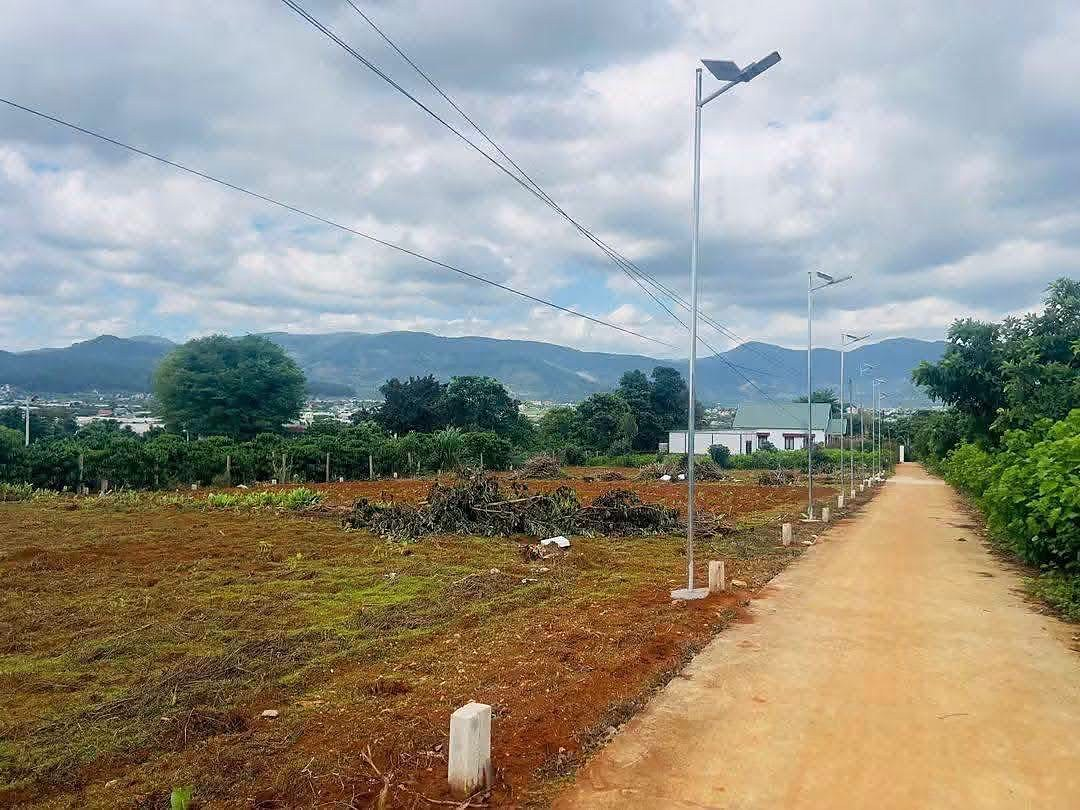
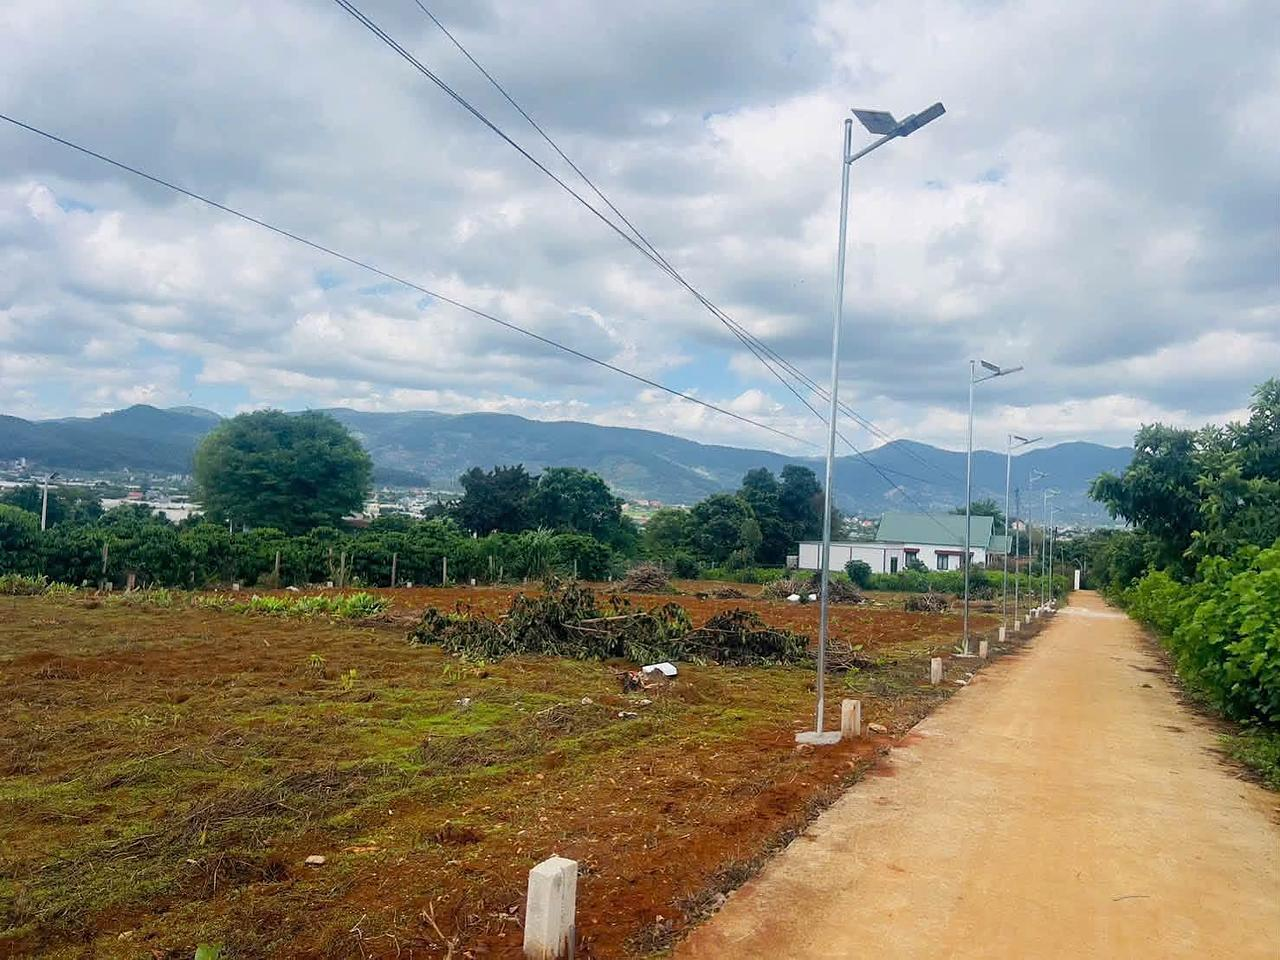
Cập nhật cụm Chi Lăng 18 lô: ảnh hiện trạng mới (đường bê tông + đèn NLMT, view rừng thông), bản vẽ 18 nền, sổ thửa 868
- Thay 4 ảnh gallery bằng ảnh mới: 2 ảnh thực tế đường + đèn NLMT + view rừng thông, bản vẽ 18 nền đánh số, sơ đồ sổ thửa 868 (cắt bỏ serial/QR/PII)
- Bổ sung view rừng thông, chợ đêm Đà Lạt 20km; cập nhật trạng thái đường đã đổ bê tông
- dateModified 09/08, og:image dims

diff --git a/dat-nen/cum-chi-lang-18-lo/index.html b/dat-nen/cum-chi-lang-18-lo/index.html
@@ -13,8 +13,8 @@
   <meta property="og:site_name" content="Nam Ban Villas">
   <meta property="og:type" content="website">
   <meta property="og:image" content="https://nambanvillas.vn/images/listings/cum-chi-lang-18-lo/1.jpg">
-  <meta property="og:image:width" content="1080">
-  <meta property="og:image:height" content="810">
+  <meta property="og:image:width" content="1280">
+  <meta property="og:image:height" content="960">
   <meta name="twitter:card" content="summary_large_image">
   <meta name="twitter:title" content="Cụm 18 Lô F0 Chi Lăng Nam Ban – Sổ Sẵn Công Chứng, ~135m²/nền, 75m² Thổ Cư, 650 Triệu/Nền">
   <meta name="twitter:description" content="18 lô F0 khu Chi Lăng, xã Nam Ban – mỗi nền 5m × ~27m (~135m²), ~75m² thổ cư/nền, sổ sẵn công chứng. Giá 650 triệu/nền.">
@@ -30,7 +30,7 @@
     <script type="application/ld+json">{"@context":"https://schema.org","@type":"Product","name":"Cụm 18 Lô F0 Chi Lăng Nam Ban – Sổ Sẵn Công Chứng, ~135m²/nền, 75m² Thổ Cư","description":"Bán cụm 18 lô F0 khu Chi Lăng, xã Nam Ban, Lâm Hà – mỗi nền ngang 5m × dài ~27m (~135m²), khoảng 75m² thổ cư/nền (tổng 1.350m² thổ cư), sổ sẵn công chứng, đã cắm ranh mốc, có trụ điện và đèn đường năng lượng mặt trời. Cách đường nhựa 200m, chợ Thăng Long 1,5km. Giá 650 triệu/nền.","url":"https://nambanvillas.vn/dat-nen/cum-chi-lang-18-lo/","image":"https://nambanvillas.vn/images/listings/cum-chi-lang-18-lo/1.jpg","brand":{"@type":"Organization","name":"Nam Ban Villas"},"offers":{"@type":"AggregateOffer","priceCurrency":"VND","lowPrice":650000000,"offerCount":10,"availability":"https://schema.org/InStock","priceValidUntil":"2026-12-31","seller":{"@type":"RealEstateAgent","name":"Nam Ban Villas","telephone":"+84938227988","url":"https://nambanvillas.vn","address":{"@type":"PostalAddress","addressLocality":"Nam Ban","addressRegion":"Lâm Đồng","addressCountry":"VN"}}},"additionalProperty":[{"@type":"PropertyValue","name":"Số nền","value":"Còn 10 nền F0 (cụm 18 nền)"},{"@type":"PropertyValue","name":"Kích thước mỗi nền","value":"Ngang 5m × dài ~27m (~135m²)"},{"@type":"PropertyValue","name":"Thổ cư","value":"~75m²/nền (tổng 1.350m²)"},{"@type":"PropertyValue","name":"Lô đặc biệt","value":"Lô 18 rộng ~200m²"},{"@type":"PropertyValue","name":"Pháp lý","value":"Sổ sẵn, công chứng sang tên (theo chủ)"},{"@type":"PropertyValue","name":"Hạ tầng","value":"Đã cắm ranh mốc, trụ điện, đèn đường năng lượng mặt trời"},{"@type":"PropertyValue","name":"Lưu ý pháp lý","value":"Mỗi nền có 25m² thuộc hành lang an toàn đường bộ (HLAT) theo sổ"},{"@type":"PropertyValue","name":"Vị trí","value":"Khu Chi Lăng, xã Nam Ban, cách đường nhựa 200m, chợ Thăng Long 1,5km"},{"@type":"PropertyValue","name":"Loại bất động sản","value":"Đất nền phân lô"}]}</script>
 <script type="application/ld+json">{"@context":"https://schema.org","@type":"FAQPage","mainEntity":[{"@type":"Question","name":"Cụm 18 lô Chi Lăng Nam Ban giá bao nhiêu, diện tích thế nào?","acceptedAnswer":{"@type":"Answer","text":"Giá 650 triệu/nền. Mỗi nền ngang 5m × dài khoảng 27m (~135m²), có khoảng 75m² thổ cư/nền; riêng lô 18 rộng ~200m². Đây là hàng F0, sổ sẵn công chứng theo chủ. Gọi 0938 227 988 để nhận bảng nền còn trống."}},{"@type":"Question","name":"Cụm ở đâu, hạ tầng thế nào?","acceptedAnswer":{"@type":"Answer","text":"Ở khu Chi Lăng, xã Nam Ban, Lâm Hà, cách đường nhựa 200m và chợ Thăng Long 1,5km. Cụm đã cắm ranh mốc, có trụ điện và đèn đường năng lượng mặt trời, nhìn thoáng ra đồi núi và thị trấn."}},{"@type":"Question","name":"Pháp lý từng nền thế nào?","acceptedAnswer":{"@type":"Answer","text":"Theo chủ, sổ sẵn và công chứng sang tên ngay. Nên hỏi rõ mỗi nền đã tách sổ riêng của chính nền đó chưa, phần thổ cư (~75m²/nền) và ranh mốc thực tế trước khi đặt cọc. Liên hệ 0938 227 988 để xem hồ sơ."}}]}</script>
   <script type="application/ld+json">{"@context":"https://schema.org","@type":"BreadcrumbList","itemListElement":[{"@type":"ListItem","position":1,"name":"Trang chủ","item":"https://nambanvillas.vn/"},{"@type":"ListItem","position":2,"name":"Đất Nền","item":"https://nambanvillas.vn/dat-nen-nam-ban/"},{"@type":"ListItem","position":3,"name":"Cụm 18 Lô F0 Chi Lăng Nam Ban","item":"https://nambanvillas.vn/dat-nen/cum-chi-lang-18-lo/"}]}</script>
-  <script type="application/ld+json">{"@context":"https://schema.org","@type":"WebPage","url":"https://nambanvillas.vn/dat-nen/cum-chi-lang-18-lo/","name":"Cụm 18 Lô F0 Chi Lăng Nam Ban (còn 10 nền)","datePublished":"2026-08-02","dateModified":"2026-08-05"}</script>
+  <script type="application/ld+json">{"@context":"https://schema.org","@type":"WebPage","url":"https://nambanvillas.vn/dat-nen/cum-chi-lang-18-lo/","name":"Cụm 18 Lô F0 Chi Lăng Nam Ban (còn 10 nền)","datePublished":"2026-08-02","dateModified":"2026-08-09"}</script>
 </head>
 <body>
 
@@ -73,19 +73,19 @@
         <div class="listing-meta-row">
           <span class="listing-location">
             <svg width="16" height="16" viewBox="0 0 24 24" fill="none"><path d="M12 2C8.13 2 5 5.13 5 9c0 5.25 7 13 7 13s7-7.75 7-13c0-3.87-3.13-7-7-7zm0 9.5c-1.38 0-2.5-1.12-2.5-2.5s1.12-2.5 2.5-2.5 2.5 1.12 2.5 2.5-1.12 2.5-2.5 2.5z" fill="#1A3D2B"/></svg>
-            Khu Chi Lăng, xã Nam Ban, Lâm Hà – cách đường nhựa 200m, cách chợ Thăng Long 1,5km
+            Khu Chi Lăng, xã Nam Ban, Lâm Hà – ngay khu dân cư, view rừng thông; cách chợ Thăng Long 1,5km, chợ đêm Đà Lạt 20km
           </span>
           <span class="listing-badge">Còn 10 nền F0</span>
         </div>
-        <p style="margin:6px 0 0;font-size:.85rem;color:#8a978f">Cập nhật 05/08/2026: cụm 18 nền, hiện <strong>còn 10 nền F0</strong> · sổ từng nền đầy đủ (ví dụ thửa 868) · giá giữ 650 triệu/nền.</p>
+        <p style="margin:6px 0 0;font-size:.85rem;color:#8a978f">Cập nhật 09/08/2026: bổ sung ảnh hiện trạng mới (đường bê tông + hàng đèn NLMT, view rừng thông) và bản vẽ 18 nền, sổ thửa 868. Cụm 18 nền, hiện <strong>còn 10 nền F0</strong> · giá giữ 650 triệu/nền.</p>
 
         <div class="listing-images">
-          <div class="listing-img-main"><img id="galMain" src="/images/listings/cum-chi-lang-18-lo/1.jpg" alt="Cụm lô Chi Lăng Nam Ban – cọc mốc bê tông dọc đường, đèn đường năng lượng mặt trời, trụ điện, view núi và thị trấn" width="700" height="525" fetchpriority="high" onclick="openLb(this.src)"></div>
+          <div class="listing-img-main"><img id="galMain" src="/images/listings/cum-chi-lang-18-lo/1.jpg" alt="Cụm 18 lô Chi Lăng Nam Ban – đất đã dọn ngay khu dân cư, hàng đèn đường năng lượng mặt trời, view rừng thông và đồi núi" width="700" height="525" fetchpriority="high" onclick="openLb(this.src)"></div>
           <div class="listing-thumbs">
-            <img class="active" src="/images/listings/cum-chi-lang-18-lo/1.jpg" onclick="swapMain(this)" alt="Cọc mốc và đèn đường năng lượng mặt trời tại cụm lô Chi Lăng Nam Ban" loading="lazy" width="1080" height="810">
-            <img src="/images/listings/cum-chi-lang-18-lo/3.jpg" onclick="swapMain(this)" alt="Đường bê tông và đèn đường năng lượng mặt trời chạy dọc các nền đất Chi Lăng Nam Ban, view đồi núi và thị trấn" loading="lazy" width="1280" height="960">
-            <img src="/images/listings/cum-chi-lang-18-lo/2.jpg" onclick="swapMain(this)" alt="Bản vẽ phân lô 18 nền Chi Lăng Nam Ban – mỗi nền ngang 5m dài ~27m, mặt đường bê tông" loading="lazy" width="1080" height="1454">
-            <img src="/images/listings/cum-chi-lang-18-lo/4.jpg" onclick="swapMain(this)" alt="Sơ đồ thửa 868 trong cụm Chi Lăng Nam Ban – nền 5×27m mặt đường bê tông, ghi chú 25m² thuộc hành lang đường bộ" loading="lazy" width="871" height="409">
+            <img class="active" src="/images/listings/cum-chi-lang-18-lo/1.jpg" onclick="swapMain(this)" alt="Cụm lô Chi Lăng Nam Ban ngay khu dân cư, đèn đường năng lượng mặt trời, view đồi núi và thị trấn" loading="lazy" width="1280" height="960">
+            <img src="/images/listings/cum-chi-lang-18-lo/2.jpg" onclick="swapMain(this)" alt="Đường bê tông nội bộ và hàng đèn đường năng lượng mặt trời chạy dọc các nền đất Chi Lăng Nam Ban" loading="lazy" width="960" height="1280">
+            <img src="/images/listings/cum-chi-lang-18-lo/3.jpg" onclick="swapMain(this)" alt="Bản vẽ phân lô 18 nền Chi Lăng Nam Ban – nền 1–18 ngang 5m dài ~27m, tổng 1.350m² thổ cư, mặt đường bê tông, HLAT" loading="lazy" width="1006" height="1280">
+            <img src="/images/listings/cum-chi-lang-18-lo/4.jpg" onclick="swapMain(this)" alt="Sơ đồ sổ thửa 868 cụm Chi Lăng Nam Ban – thửa 864–881 mặt đường bê tông, ghi chú 25m² thuộc hành lang an toàn đường bộ, tách từ thửa 601" loading="lazy" width="903" height="697">
           </div>
         </div>
 
@@ -117,7 +117,7 @@
         <div class="listing-description">
           <h2>Mô Tả Cụm Đất</h2>
           <p>Cụm 18 nền F0 (chủ gửi trực tiếp) ở khu Chi Lăng, xã Nam Ban, Lâm Hà. Mỗi nền ngang 5m, dài khoảng 27m (~135m²), có khoảng 75m² thổ cư/nền — tổng 1.350m² thổ cư cả cụm; riêng lô 18 rộng khoảng 200m². Cụm đã cắm ranh mốc, có trụ điện và đèn đường năng lượng mặt trời; theo chủ sổ sẵn, công chứng sang tên ngay.</p>
-          <p>Vị trí cách đường nhựa 200m, cách chợ Thăng Long 1,5km, nhìn thoáng ra đồi núi và thị trấn. Giá 650 triệu/nền (khoảng 4,8 triệu/m²). Ảnh hiện trạng cho thấy đường nội bộ đã mở và lắp đèn; nên xác nhận mặt đường (bê tông/cấp phối) và tiến độ hạ tầng khi đi xem. Gọi 0938 227 988 để nhận bảng nền còn trống và đi xem đất.</p>
+          <p>Vị trí ngay khu dân cư hiện hữu, view rừng thông và đồi núi; cách đường nhựa 200m, chợ Thăng Long 1,5km và chợ đêm Đà Lạt khoảng 20km. Giá 650 triệu/nền (khoảng 4,8 triệu/m²). Ảnh hiện trạng mới cho thấy đường nội bộ đã đổ bê tông và lắp hàng đèn năng lượng mặt trời, đất đã dọn sạch; nên xác nhận đoạn đường vào nền mình chọn và tiến độ hạ tầng khi đi xem. Hợp mua đầu tư, tích sản hoặc để dành. Gọi 0938 227 988 để nhận bảng nền còn trống và đi xem đất.</p>
         </div>
 
         <div class="risk-block">
@@ -128,8 +128,8 @@
                 <li>18 nền F0 cùng quy cách 5×27m (~135m²) — dễ so sánh, dễ chọn</li>
                 <li>Mỗi nền có ~75m² thổ cư (tổng 1.350m²) — xây được trên phần đất ở</li>
                 <li>Đã cắm ranh mốc, có trụ điện và đèn đường năng lượng mặt trời</li>
-                <li>Khu Chi Lăng xã Nam Ban, cách đường nhựa 200m, chợ Thăng Long 1,5km</li>
-                <li>Giá 650 triệu/nền, view đồi núi thoáng</li>
+                <li>Ngay khu dân cư hiện hữu, view rừng thông; cách nhựa 200m, chợ Thăng Long 1,5km, chợ đêm Đà Lạt 20km</li>
+                <li>Đường nội bộ đã đổ bê tông + hàng đèn NLMT (ảnh hiện trạng mới); giá 650 triệu/nền</li>
               </ul>
             </div>
             <div class="risk-col risks">
@@ -137,7 +137,7 @@
               <ul>
                 <li>Sổ từng nền đã có (ví dụ thửa 868) — nhưng theo sổ, mỗi nền có <strong>25m² thuộc hành lang an toàn đường bộ (HLAT)</strong>, phần này không được xây; hỏi rõ phần xây dựng thực của nền mình chọn</li>
                 <li>Mỗi nền ~135m² chỉ có ~75m² thổ cư, phần còn lại là đất nông nghiệp — đối chiếu ranh phần thổ cư trên sổ nền cụ thể</li>
-                <li>Ảnh hiện trạng đường còn là đường đất/cấp phối — xác nhận mặt đường bê tông, tiến độ hạ tầng và đối chiếu ranh mốc thực tế</li>
+                <li>Đường nội bộ đã đổ bê tông ở nhiều đoạn (theo ảnh) — xác nhận đoạn vào nền mình chọn đã hoàn thiện, tiến độ hạ tầng còn lại và đối chiếu ranh mốc thực tế</li>
               </ul>
             </div>
           </div>
